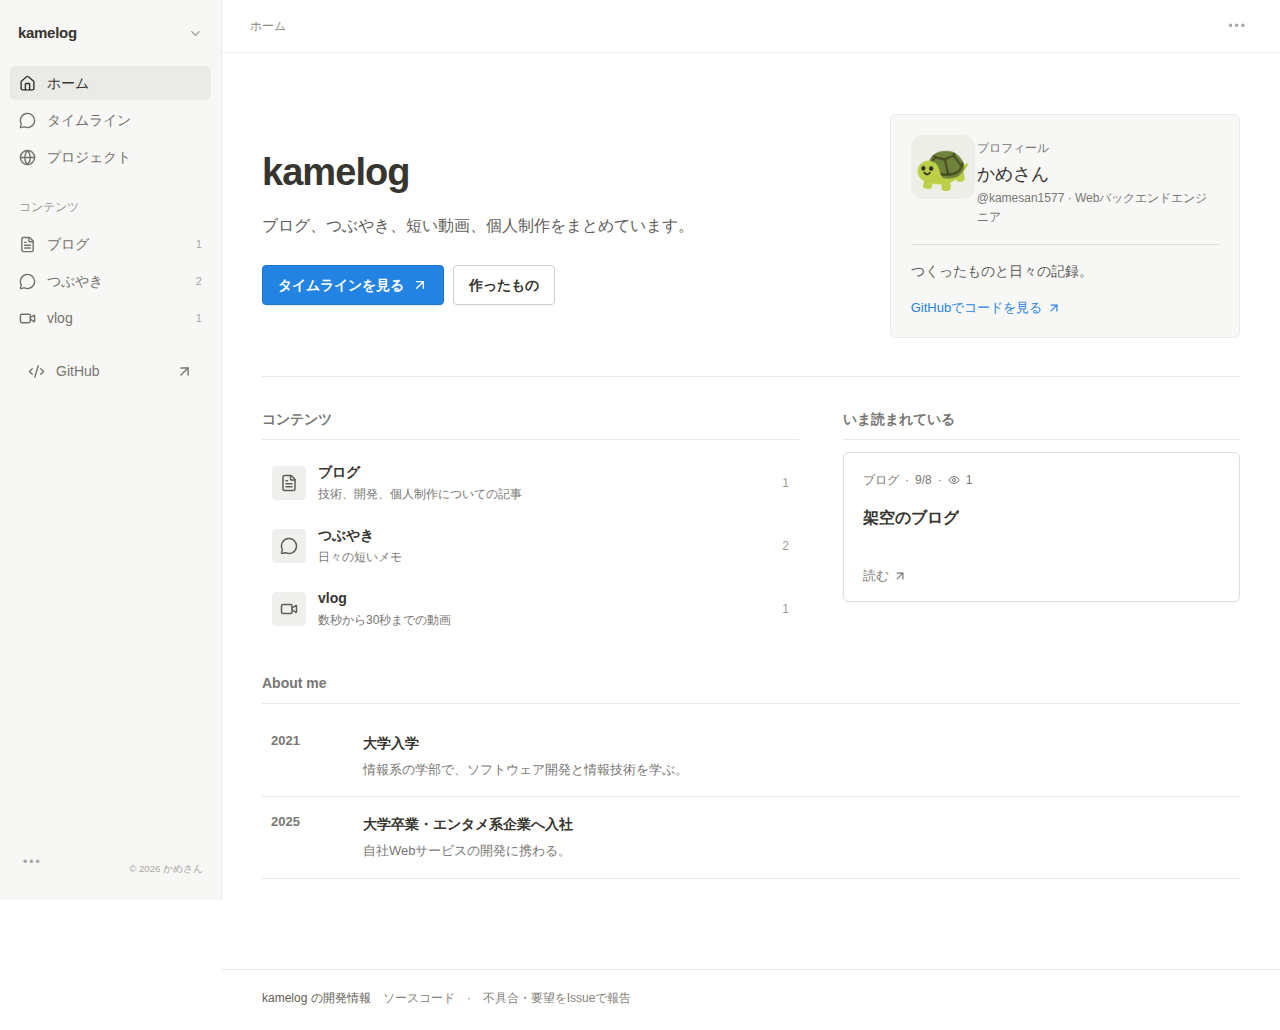
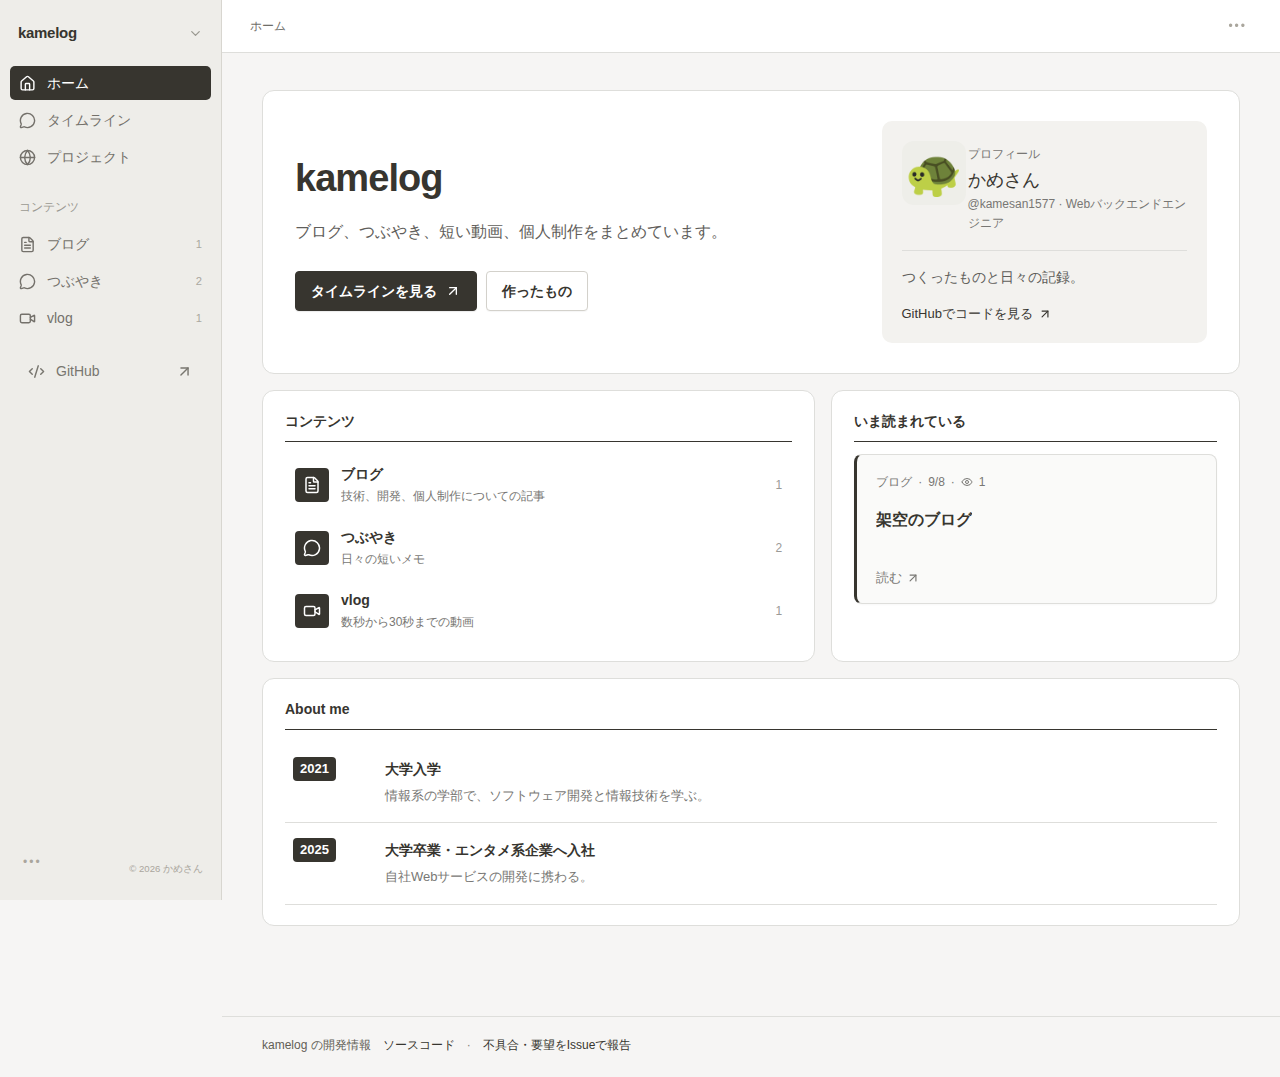
Update ink theme screenshots

diff --git a/HANDOFF.md b/HANDOFF.md
@@ -55,7 +55,7 @@ Issueは作業追跡に限り、チャット内容を読む必要はない。
 - 2026-09-08 Issue #45のデザイン修正では、利用者の指示に従い大きなコピー、状態表示風の装飾、走査アニメーション、過剰な影と引用表現を削除した。`make check`が成功し、PCと390pxの匿名表示を実ブラウザで確認した。ローカルE2E用Chromiumは取得がtimeoutしたため、更新したjourneyはPRのCI `e2e` で確認する。
 - 2026-09-08 Issue #45の経歴・閲覧数変更では、既存DBへの追加migration、閲覧数の永続・復元・投稿削除時消去、同一Origin拒否、公開API、閲覧数による人気投稿選択をunit/E2Eへ追加し、`make check`が成功した。PCと390pxの匿名表示を実ブラウザで確認した。ローカル `make e2e` はPlaywright Chromiumが未導入で起動前に失敗したため、PRのCI `e2e` で確認する。
 - 2026-09-08 Issue #14 SEO変更では、実行環境からGitHubをcheckoutできないためローカル `make check` / `make e2e` は未実施。canonical・JSON-LD・robots・sitemap・404の回帰をunit/E2Eへ追加し、PRのCI `check` / `e2e` / `container` で確認する。公開環境の性能値はデプロイ後に `runbooks/seo.md` で再計測する。
-- 2026-09-08 Issue #56の再調整では、青を主要色から外し、元の「タイムラインを見る」の墨色 `#37352f` を共通ボタン・選択状態・focus・リンクへ展開した。暖色の地と白い情報面、1px罫線でトップページとタイムラインを再構成し、`make check` とPR CIで検証する。ローカル `make e2e` はPlaywright Chromiumを取得できないため、PC/390pxの画面回帰とスクリーンショットはPR CIで確認する。
+- 2026-09-08 Issue #56の再調整では、青を主要色から外し、元の「タイムラインを見る」の墨色 `#37352f` を共通ボタン・選択状態・focus・リンクへ展開した。暖色の地と白い情報面、1px罫線でトップページとタイムラインを再構成し、`make check` とGitHub Actions run #187の `check` / `e2e` / `container` がすべて成功した。CIのPlaywright ChromiumでPC/390px表示を撮影し、PRのスクリーンショットを更新した。
 
 ## 対象サーバーでのみ完了できる項目
 
